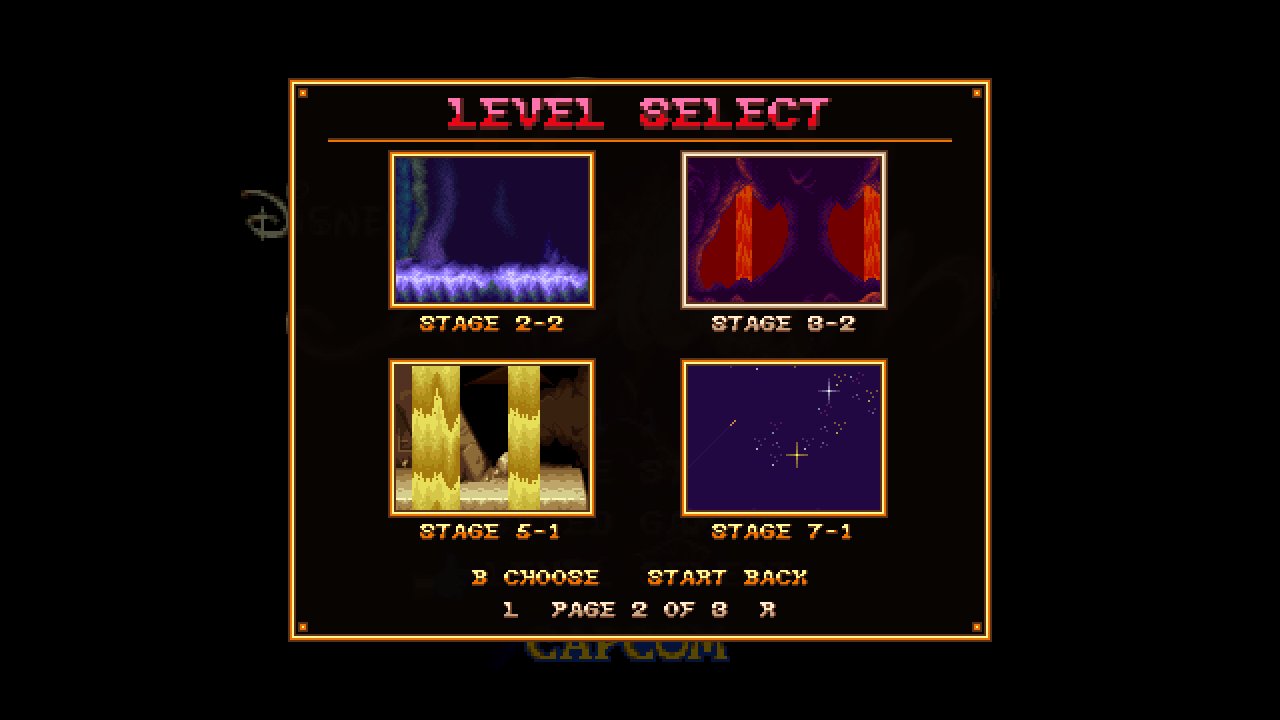
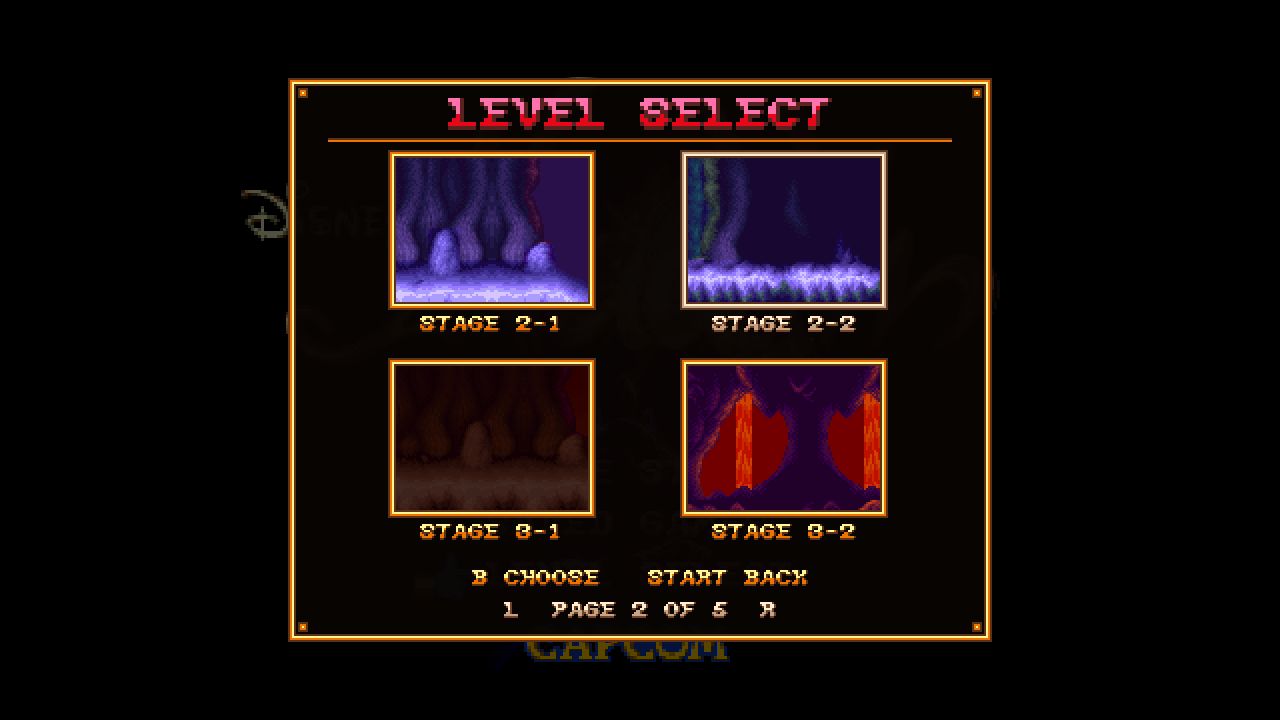
Level select: every level is shown, those not yet beaten at 25% brightness and not chosen; the pictures, checks and documents follow

diff --git a/native/aladdin/src/pause/level_screen.c b/native/aladdin/src/pause/level_screen.c
@@ -1,7 +1,8 @@
 /*
- * level_screen.c: the level select screen (level_screen.h). The cells are the beaten levels in the game's order, each with its
+ * level_screen.c: the level select screen (level_screen.h). The cells are every level in the game's order, each with its
  * picture (video/level_picture.h, made when the game was built) and "STAGE n-m" (the game's own part and stage numbers).
- * Choosing a level shuts the screen and leaves the level for the title to start. With nothing beaten the screen says so.
+ * A level not beaten is shown at UNBEATEN_PERCENT of its brightness and cannot be chosen. Choosing a beaten level shuts the screen and leaves
+ * the level for the title to start.
  */
 #include <stdio.h>
 #include <string.h>
@@ -12,25 +13,43 @@
 #include "video/level_picture.h"
 
 #define PER_PAGE 4
+#define UNBEATEN_PERCENT 25     /* an unbeaten level's picture at this much of its brightness: shown, not chosen */
+#define PIXELS (LEVEL_PICTURE_W * LEVEL_PICTURE_H)
 
 static struct {
     int requested, active, taken;
-    unsigned count;
     SlotCell cell[BEATEN_LEVELS];
-    unsigned entry[BEATEN_LEVELS];
-} s = { 0, 0, -1, 0, { { 0 } }, { 0 } };
+    int beaten[BEATEN_LEVELS];
+} s = { 0, 0, -1, { { 0 } }, { 0 } };
 
+static uint32_t faded[BEATEN_LEVELS][PIXELS];
 static SlotCell empty_cell;
 
 static const SlotCell *cell_of(void *ctx, int index)
 {
     (void)ctx;
-    return index >= 0 && (unsigned)index < s.count ? &s.cell[index] : &empty_cell;
+    return index >= 0 && index < BEATEN_LEVELS ? &s.cell[index] : &empty_cell;
 }
 
 void level_screen_request_title(void) { s.requested = 1; }
 int level_screen_requested(void) { return s.requested; }
 int level_screen_active(void) { return s.active; }
+
+/* the picture darkened to UNBEATEN_PERCENT of its brightness, a channel at a time */
+static const uint32_t *fade_of(const uint32_t *pic, unsigned i)
+{
+    unsigned k;
+
+    if (!pic)
+        return NULL;
+    for (k = 0; k < PIXELS; k++) {
+        uint32_t c = pic[k];
+        uint32_t r = (c >> 16 & 0xFF) * UNBEATEN_PERCENT / 100, g = (c >> 8 & 0xFF) * UNBEATEN_PERCENT / 100, b = (c & 0xFF) * UNBEATEN_PERCENT / 100;
+
+        faded[i][k] = (c & 0xFF000000u) | r << 16 | g << 8 | b;
+    }
+    return faded[i];
+}
 
 void level_screen_open(void)
 {
@@ -40,44 +59,38 @@ void level_screen_open(void)
     s.requested = 0;
     s.active = 1;
     s.taken = -1;
-    s.count = BeatenCount();
-    for (i = 0; i < s.count; i++) {
-        unsigned e = BeatenFind(i);
+    for (i = 0; i < BEATEN_LEVELS; i++) {
         SlotCell *c = &s.cell[i];
+        const uint32_t *pic = LevelPictureOf(BeatenListLevel(i));
 
         memset(c, 0, sizeof *c);
-        s.entry[i] = e;
+        s.beaten[i] = BeatenIs(BeatenListLevel(i));
         c->used = 1;
-        c->picture = LevelPictureOf(BeatenListLevel(e));
-        snprintf(c->line1, sizeof c->line1, "STAGE %u-%u", BeatenListPart(e) + 1, BeatenListStage(e) + 1);
+        c->picture = s.beaten[i] ? pic : fade_of(pic, i);
+        snprintf(c->line1, sizeof c->line1, "STAGE %u-%u", BeatenListPart(i) + 1, BeatenListStage(i) + 1);
     }
     memset(&spec, 0, sizeof spec);
     spec.title = "LEVEL SELECT";
     spec.cols = 2;
     spec.rows = 2;
-    spec.pages = s.count ? (int)((s.count + PER_PAGE - 1) / PER_PAGE) : 1;
+    spec.pages = (BEATEN_LEVELS + PER_PAGE - 1) / PER_PAGE;
     spec.pic_w = LEVEL_PICTURE_W;
     spec.pic_h = LEVEL_PICTURE_H;
     spec.cell = cell_of;
     slot_grid_open(&spec);
-    if (!s.count) {
-        static const char *const ok[1] = { "OK" };
-
-        slot_grid_ask("NO STAGES CLEARED YET", ok, 1);
-    }
 }
 
 int level_screen_update(const nshvc_input *in)
 {
     SlotResult r = slot_grid_update(in);
 
-    if (r.what == SLOT_BACK || (r.what == SLOT_ANSWER && !s.count)) {
+    if (r.what == SLOT_BACK) {
         slot_grid_close();
         s.active = 0;
         return LEVEL_SCREEN_BACK;
     }
-    if (r.what == SLOT_CHOSEN && r.index >= 0 && (unsigned)r.index < s.count) {
-        s.taken = (int)s.entry[r.index];
+    if (r.what == SLOT_CHOSEN && r.index >= 0 && r.index < BEATEN_LEVELS && s.beaten[r.index]) {  /* an unbeaten level is shown, not chosen */
+        s.taken = r.index;
         slot_grid_close();
         s.active = 0;
         return LEVEL_SCREEN_CHOSEN;

diff --git a/docs/aladdin/native/LEVELSELECT.md b/docs/aladdin/native/LEVELSELECT.md
@@ -2,8 +2,8 @@
 
 **How it meets Jeff's direction** ("a level select screen accessible from the main menu, which goes to a screen in a similar
 aesthetic to the new save menu screen, where a player can go right to any level they've beaten before (grid of 4, pageable)
-with 1x1 screenshots of that level (cropped close so graphic matches)"): the title's LEVEL SELECT opens a screen of the levels the
-player has beaten, 4 to a page (2 rows of 2) on the save screen's own grid part, each cell a crop of that level at one game pixel to
+with 1x1 screenshots of that level (cropped close so graphic matches)"): the title's LEVEL SELECT opens a screen of every level,
+the ones beaten chosen and the rest faded, 4 to a page (2 rows of 2) on the save screen's own grid part, each cell a crop of that level at one game pixel to
 one menu pixel and the level's number; choosing one starts it with a new game's counts. His answers (2026-11-23): a level started
 from here starts with a new game's lives and counts; beating levels from here still unlocks the next ones; the beaten levels are kept in
 one progress file, apart from the save slots.
@@ -76,12 +76,11 @@ Each call marks `g.level` (the level being left) and reads nothing else; it chan
 It is in the game's logic, so it marks the level however it was reached: from the title's GAME START, a continue, a level select, a
 loaded save (the save screen's slots start the game at their progress and the same exits run), and the demo cannot reach an exit.
 
-**Before anything is beaten** the screen shows no cells and one line, in the game's text tiles: `NO STAGES CLEARED YET`, with the
-save screen's back control. A level that is not in the list is never marked.
+**Before anything is beaten** every cell is there, faded (section 6); nothing can be chosen. A level that is not in the list is never marked.
 
 **Unlocking.** A level started from the screen plays on as the game does (`g.progress_*` carry on to the next stage and part), so the
 levels after it are beaten in turn and each is marked when its own exit is passed; the screen lists only levels that are marked, as
-Jeff said ("any level they've beaten before").
+Jeff said ("any level they've beaten before"). (Jeff, 2026-11-23, later: all the levels are shown; one not yet beaten is shown at 25% and cannot be chosen.)
 
 ## 3. The progress file
 
@@ -147,13 +146,13 @@ up (boot, and the continue screen's "no" clears it).
 ## 6. The screen
 
 `pause/level_screen.[ch]` on the save screen's grid (`pause/slot_grid.[ch]`, merged from the save branch): an overlay on the held title, 2 columns x 2
-rows of 96 x 72 pictures, pages of four (`pages` = beaten levels / 4, at least 1), the title line "LEVEL SELECT", each cell the level's picture and
-`STAGE n-m` (the game's part + 1 and stage + 1). The pad, keys and pointer are the grid's (directions among cells, Left at the first column and
-Right at the last turn the page, L and R turn it, B or A chooses, Start or Escape go back). With nothing beaten the grid shows four EMPTY frames and
-the line `NO STAGES CLEARED YET` with OK, which goes back. The title's LEVEL SELECT line asks for it (`level_screen_request_title`), `pause/menu.c`
-opens it from the next update beside the save screen and holds the game; choosing a cell shuts it and the title, at its next update, takes the
-list entry (`level_screen_take`), calls `LevelSelectStart`, and goes on as GAME START does (sound $4F, the fade, `TASK_ENTRY_GAME_START`). Back
-returns to the title menu as it stood.
+rows of 96 x 72 pictures, **all 19 levels** in the game's order, 5 pages of four, the title line "LEVEL SELECT", each cell the level's picture and
+`STAGE n-m` (the game's part + 1 and stage + 1). A level not yet beaten is drawn at **25% of its brightness** (each colour channel x 0.25,
+`UNBEATEN_PERCENT`) and choosing it does nothing; the cursor can rest on it. The pad, keys and pointer are the grid's (directions among cells, Left at
+the first column and Right at the last turn the page, L and R turn it, B or A chooses, Start or Escape go back). The title's LEVEL SELECT line asks for
+it (`level_screen_request_title`), `pause/menu.c` opens it from the next update beside the save screen and holds the game; choosing a beaten cell
+shuts it and the title, at its next update, takes the list entry (`level_screen_take`), calls `LevelSelectStart`, and goes on as GAME START does
+(sound $4F, the fade, `TASK_ENTRY_GAME_START`). Back returns to the title menu as it stood.
 
 ## 7. Choices for Jeff to change
 
@@ -163,7 +162,7 @@ returns to the title menu as it stood.
 3. **The picture:** composed scenery of the level's start (no Aladdin, no enemies, no status line), not a true screenshot; and the
    level where it is black ($0C).
 4. **The crop:** 96 x 72 pixels, centred on where Aladdin starts, never scaled (set against the grid's cell in stage 2).
-5. **What shows first:** "NO STAGES CLEARED YET" until a level is beaten.
+5. **Unbeaten levels:** shown at 25% brightness and not chosen (Jeff's direction; "25% faded" read as 25% of the brightness, one number in `level_screen.c`).
 6. **Order:** the game's own play order (part 6, the single stage $12, before part 5).
 7. **Beaten:** the level's exit passed; the two boss levels are marked at their exits (level $11's at the fade into the ending).
 8. A level beaten from a loaded save or a continue counts, as from the screen.
@@ -204,15 +203,15 @@ Checks (macOS headless build, builds in `build/aladdin/native/base` = 71ea8d0 an
 Merged the save-menu branch (the grid, `menu.c`, the title's SAVED GAMES line); the conflicts were the includes of `title_task.c` and `dev_start.c`
 and `CHECK.md`, kept both sides. New: `pause/level_screen.[ch]`, `video/level_pictures.c` (the reader; `level_picture.c` keeps the composer and the
 writer), `tools/make_pictures.sh`, `native/checks/pause_check/level_check.c` and `level_build.sh`; `pause/menu.c` and `game/title_task.c` call the
-screen. Checks (macOS headless, the pause check's own stubbed build for the pictures):
+screen. Checks (macOS headless, the pause check's own stubbed build for the pictures). Later the same day: every level shown and the unbeaten faded and
+  not chosen: with an empty save folder B on the first cell starts nothing (no level 0 play to update 3500); with level $00 beaten the same keys start it (2839).
 
-- **Pictures** under `docs/aladdin/native/shots/`: `levelselect-none.png` (nothing beaten), `levelselect-some.png` (9 levels beaten, page 1 of 3,
-  the first cell chosen), `levelselect-page2.png` (page 2, second cell chosen), `levelselect-page3.png` (the last page, one level), `levelselect-last.png`
-  (all 19, page 5, the last cell). Over the title's picture, 1280 x 720, made by `level_check` from the game's own `level_screen.c`, `beaten.c`,
-  `level_pictures.c`, `slot_grid.c` and `menu_art.c`.
+- **Pictures** under `docs/aladdin/native/shots/`: `levelselect-none.png` (nothing beaten: all faded), `levelselect-some.png` (9 levels beaten, page 1
+  of 5, the first cell chosen, stage 1-4 unbeaten and faded), `levelselect-page2.png` (page 2), `levelselect-last.png` (page 5, the last level). Over the
+  title's picture, 1280 x 720, made by `level_check` from the game's own `level_screen.c`, `beaten.c`, `level_pictures.c`, `slot_grid.c` and `menu_art.c`.
 - **Each level picture against its source, pixel for pixel.** The 9 levels of `levels_some`: the picture the screen reads from the file is the same
   as `LevelPicture`'s crop written by the map dump (0 of 6,912 differ, each), and found on the panel, drawn by the grid at one pixel (a 704 x 564 window), 0 of
-  6,912 differ at its cell, on the page and cell the list's order gives (levels $00 $01 $02 $04 | $05 $07 $0B $12 | $10). The dump's crop is the
+  6,912 differ at its cell (before the faded cells were added: pages then held only the beaten ones). The dump's crop is the
   same as the dump's start window at the same place (stage 1). **Not run:** against the engine's own rendered picture of the loaded level
   (`ALADDIN_DEV_MAPDUMP_HOLD` with `--shots`), which needs a renderer; the null headless build writes none.
 - **Choosing each listed level reaches its first update**: in the real game (headless, no cheat byte), a save folder with all 19 beaten, the keys

diff --git a/docs/aladdin/native/CHECK.md b/docs/aladdin/native/CHECK.md
@@ -455,7 +455,8 @@ ticks (mean, the real step alone, median, 99th percentile, worst, how many over 
 
 ## The level select screen (2026-11-23, LEVELSELECT.md section 9)
 
-- Pictures made at build time (`native/aladdin/tools/make_pictures.sh`, 0.7 s, 525,412 B). `native/checks/pause_check/level_build.sh OUT` (with `NSHVC` set to the engine's checkout) builds `level_check`: `level_check BASE.ppm W H PAGE SEL OUT.ppm [PICS_PREFIX]` with `LEVEL_FILE` (a `levels` file) and `DATA_TEST_DIR` (`cart.dat`, `level_pictures.dat`). The screens: `shots/levelselect-none.png`, `-some.png`, `-page2.png`, `-page3.png`, `-last.png`.
+- Pictures made at build time (`native/aladdin/tools/make_pictures.sh`, 0.7 s, 525,412 B). `native/checks/pause_check/level_build.sh OUT` (with `NSHVC` set to the engine's checkout) builds `level_check`: `level_check BASE.ppm W H PAGE SEL OUT.ppm [PICS_PREFIX]` with `LEVEL_FILE` (a `levels` file) and `DATA_TEST_DIR` (`cart.dat`, `level_pictures.dat`). The screens: `shots/levelselect-none.png`, `-some.png`, `-page2.png`, `-last.png` (every level shown, unbeaten at 25%).
 - 9 levels: each picture the screen reads equals the map dump's `LL-picture.ppm` (0 of 6,912 differ), and on the panel at one pixel (704 x 564 window) 0 of 6,912 differ at its cell.
 - Choosing: all 19 entries, from the title by keys with all 19 beaten, no cheat byte: each reaches its level (health above 0) at update 2839 to 2914.
 - `same.sh` base 71ea8d0 against the merged tree: 21 runs, 0 differ.
+- Unbeaten cells cannot be chosen: empty save folder, Start, Down, Down, B, B, B: no level plays to update 3500; with level $00 beaten the same keys play it from 2839.
